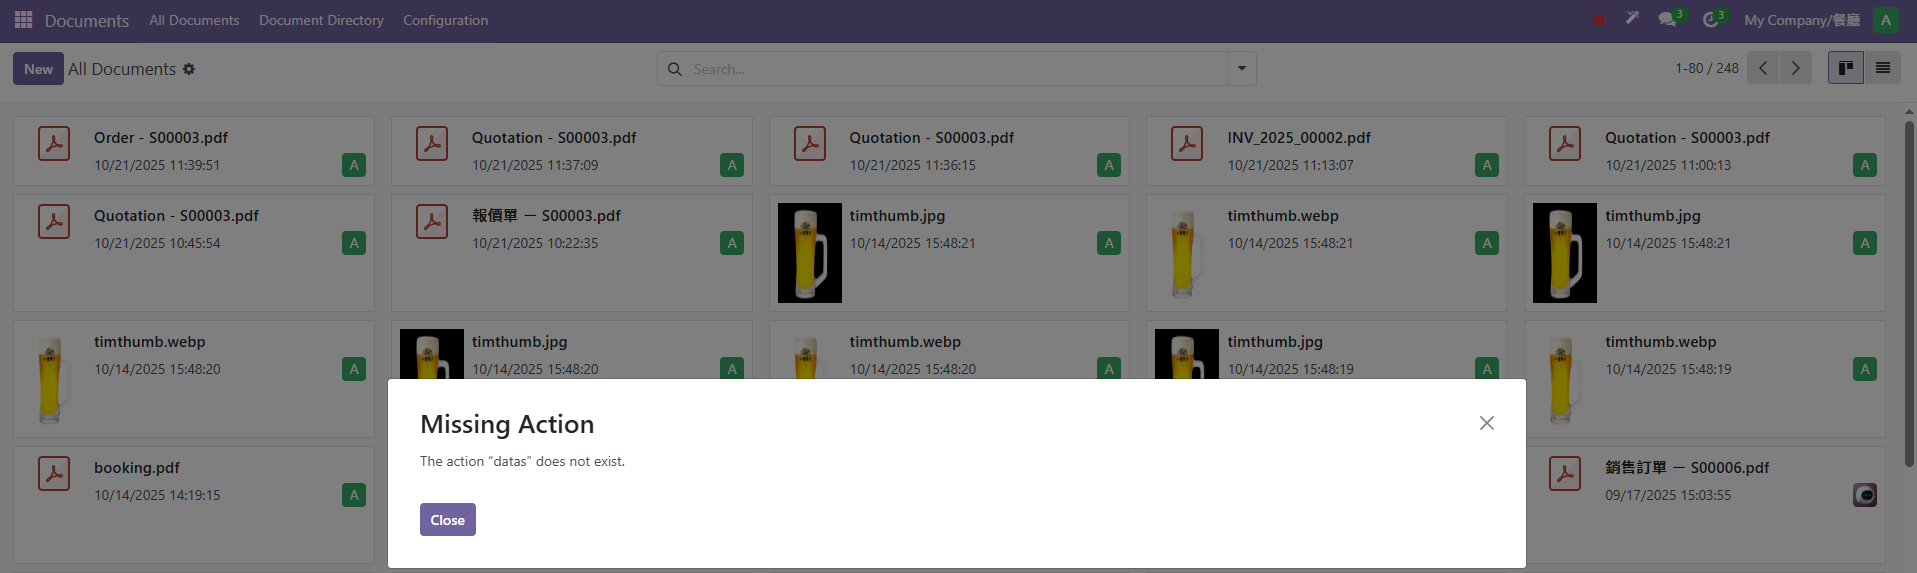
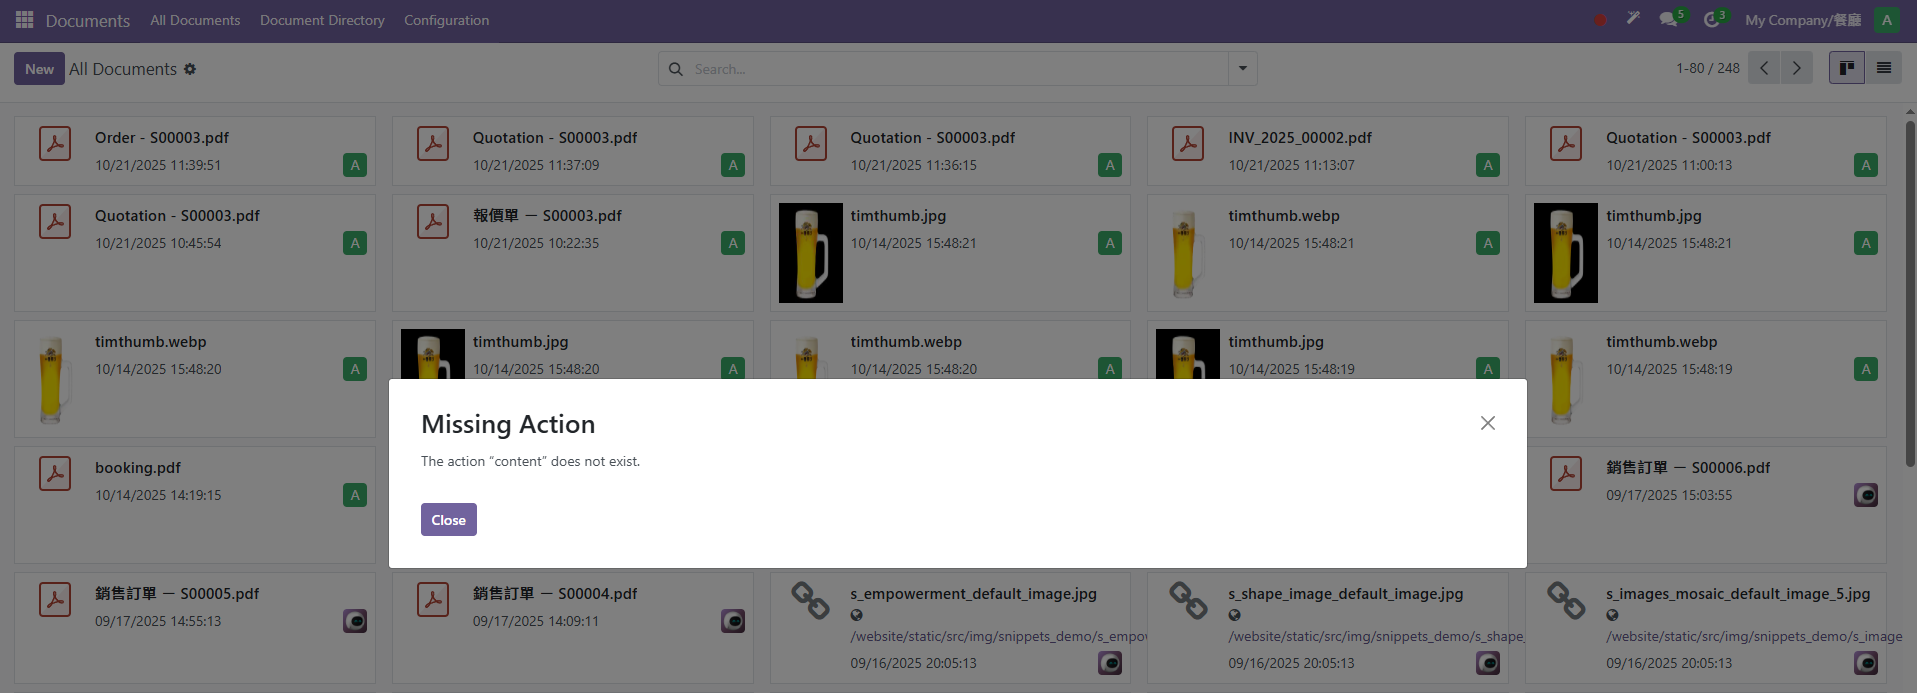
update BUG_REPORT

diff --git a/BUG_REPORT/BUG_REPORT.md b/BUG_REPORT/BUG_REPORT.md
@@ -4,7 +4,6 @@
 
 ### Test step 
 
-- Reference `Bug_1_screenshot_1.png`.
 1. In `All Documents` page hover on the top right corner of any document then click `Dropdown menu`.
 2. `Dropdown menu` will show 2 options, `Download` and `Delete`.
 3. Click `Download`. 
@@ -17,7 +16,7 @@ Let user download the file.
 
 ### Actual behavior
 
-`Missing Action` message popup shows that the action "datas" does not exit.
+`Missing Action` message popup shows that the action "content" does not exit.
 
 - Reference `Bug_1_screenshot_2.png`.
 
@@ -36,10 +35,10 @@ Let user download the file.
 
 ### Expected behavior
 
-Let user download the file.
+Create remote URL download link for user.
 
 ### Actual behavior
 
-Error message shows `The requested URL was not found on the server. If you entered the URL manually please check your spelling and try again`.
+Somehow the URL is showing the local address instead of a remote URL. If I manually change the local address to remote URL, the file can be downloaded normally.
 
 - Reference `Bug_2_screenshot_3.png`.

diff --git a/test_information_for_CLAUDE.md b/test_information_for_CLAUDE.md
@@ -11,5 +11,3 @@ My Odoo server is installed in the same Docker environment as the Home Assistant
 ## SSH to Home Assistant
 
 - Command : ssh ha-192-168-2-6
-- Login user name : admin
-- Login password : woowtech
